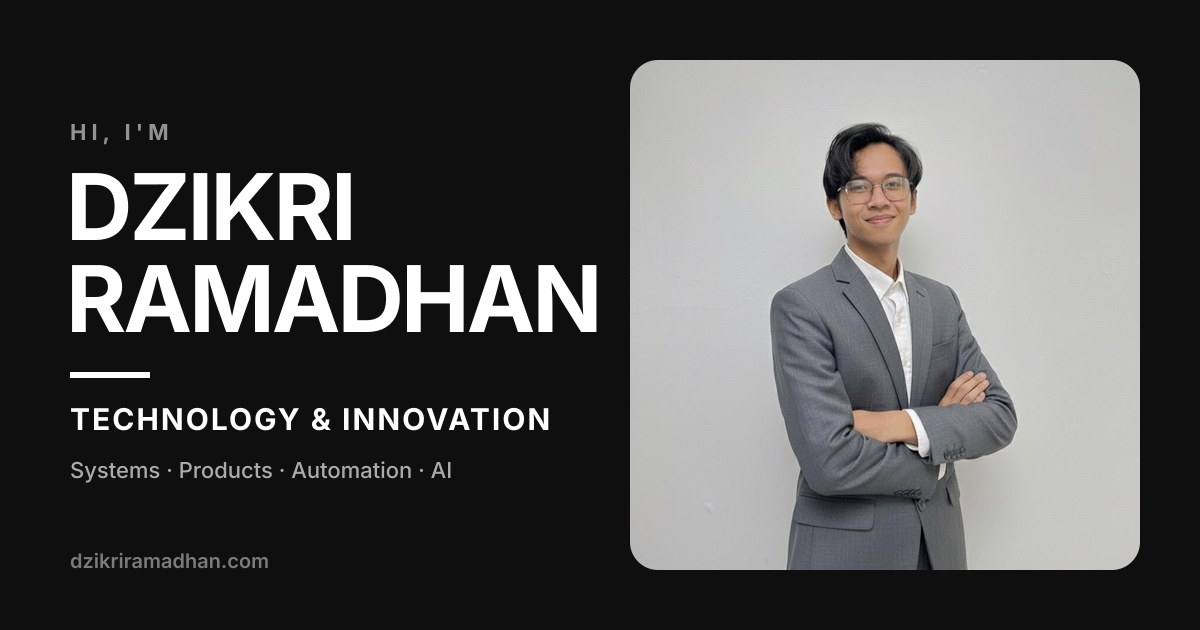
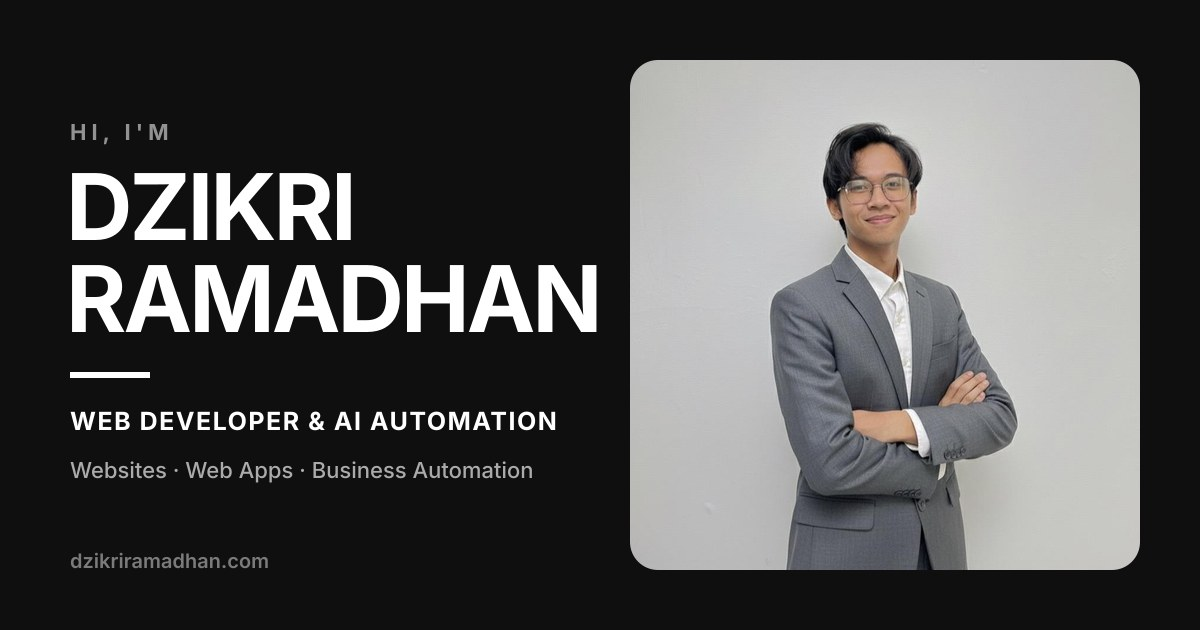
Reposition SEO copy as freelance web developer & AI automation

Changed region(s): [[0.0617, 0.6333, 0.4625, 0.6937], [0.0617, 0.7238, 0.4625, 0.7841]]

diff --git a/i18n/id.ts b/i18n/id.ts
@@ -3,9 +3,9 @@ import type { Dictionary } from "./en";
 // Site copy (Bahasa Indonesia)
 export const id: Dictionary = {
   meta: {
-    title: "Dzikri Ramadhan - Technology & Innovation",
+    title: "Dzikri Ramadhan — Jasa Website & Otomasi Bisnis AI (Freelance)",
     description:
-      "Saya menjembatani bisnis dan teknologi untuk membangun sistem digital, produk, dan otomasi yang menyelesaikan masalah bisnis nyata.",
+      "Website, aplikasi web, dan otomasi bisnis berbasis AI yang dirancang dari masalah bisnis Anda, bukan dari template. Freelance & remote dari Indonesia.",
     siteName: "Dzikri Ramadhan",
     ogLocale: "id_ID",
   },
@@ -23,7 +23,7 @@ export const id: Dictionary = {
 
   hero: {
     eyebrow: "Halo, saya",
-    role: "Technology & Innovation",
+    role: "Web Developer & AI Automation",
     handsOn: "Saya merancang, membangun, dan merilisnya.",
     supporting:
       "Saya membangun sistem digital, produk, dan otomasi yang mengubah tantangan bisnis menjadi solusi yang scalable.",
@@ -277,7 +277,7 @@ export const id: Dictionary = {
   },
 
   footer: {
-    tagline: "Technology & Innovation",
+    tagline: "Web Developer & AI Automation",
     sub: "Membangun sistem, produk & otomasi untuk bisnis yang lebih baik.",
   },
 

diff --git a/i18n/en.ts b/i18n/en.ts
@@ -2,9 +2,9 @@
 // Text wrapped in **double asterisks** renders bold where the component supports it.
 export const en = {
   meta: {
-    title: "Dzikri Ramadhan - Technology & Innovation",
+    title: "Dzikri Ramadhan — Freelance Web Developer & AI Automation",
     description:
-      "I bridge business and technology to build digital systems, products, and automation that solve real business problems.",
+      "Custom websites, web apps and AI-powered business automation, engineered around your business problem, not a template. Remote & freelance from Indonesia (GMT+7).",
     siteName: "Dzikri Ramadhan",
     ogLocale: "en_US",
   },
@@ -22,7 +22,7 @@ export const en = {
 
   hero: {
     eyebrow: "Hi, I'm",
-    role: "Technology & Innovation",
+    role: "Web Developer & AI Automation",
     handsOn: "I plan it, build it, and ship it.",
     supporting:
       "I build digital systems, products, and automation that turn business challenges into scalable solutions.",
@@ -278,7 +278,7 @@ export const en = {
   },
 
   footer: {
-    tagline: "Technology & Innovation",
+    tagline: "Web Developer & AI Automation",
     sub: "Building systems, products & automation for better business.",
   },
 

diff --git a/lib/seo.tsx b/lib/seo.tsx
@@ -37,13 +37,22 @@ export function homeJsonLd(lang: Locale) {
         "@type": "Person",
         "@id": PERSON_ID,
         name: "Dzikri Ramadhan",
-        jobTitle: "Technology & Innovation Leader",
+        jobTitle: "Freelance Web Developer & AI Automation Specialist",
         description: t.description,
         url: SITE_URL,
         image: `${SITE_URL}/images/profile.jpeg`,
         email: `mailto:${EMAIL}`,
         address: { "@type": "PostalAddress", addressLocality: "Jakarta", addressCountry: "ID" },
-        knowsAbout: ["Digital Transformation", "Product Development", "Business Automation", "Artificial Intelligence", "Web Development"],
+        knowsAbout: [
+          "Web Development",
+          "Web Application Development",
+          "Next.js",
+          "AI Automation",
+          "Business Process Automation",
+          "Artificial Intelligence",
+          "Product Development",
+          "Digital Transformation",
+        ],
         sameAs: socialLinks.filter((s) => s.id !== "email").map((s) => s.url),
       },
       {
